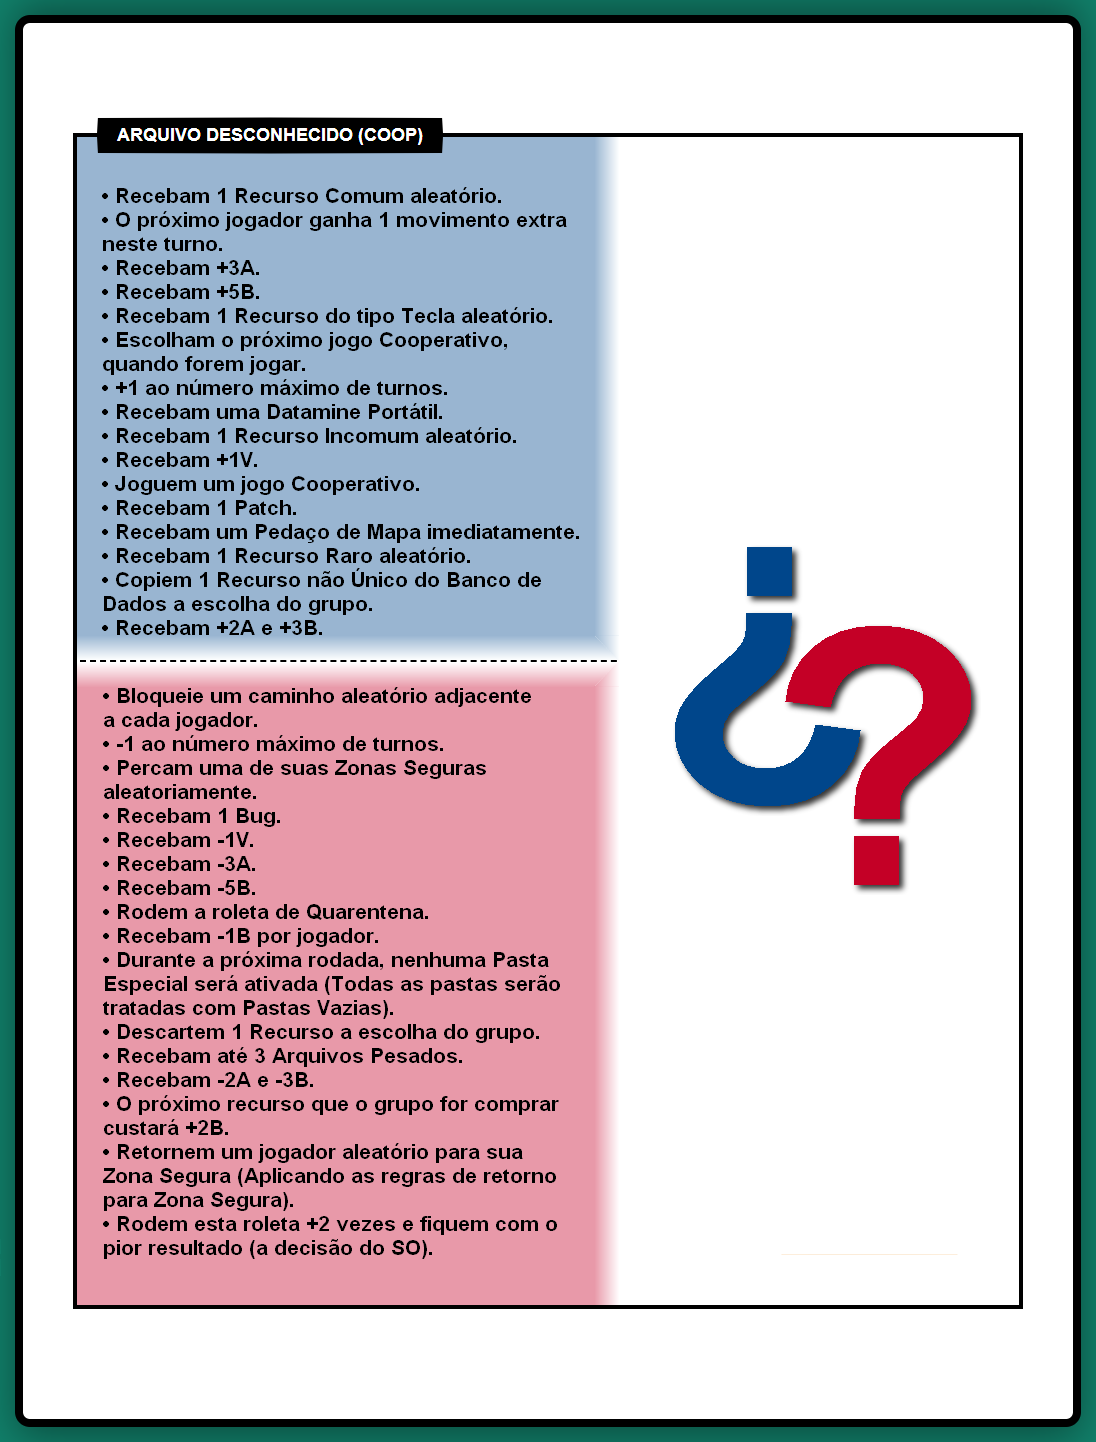
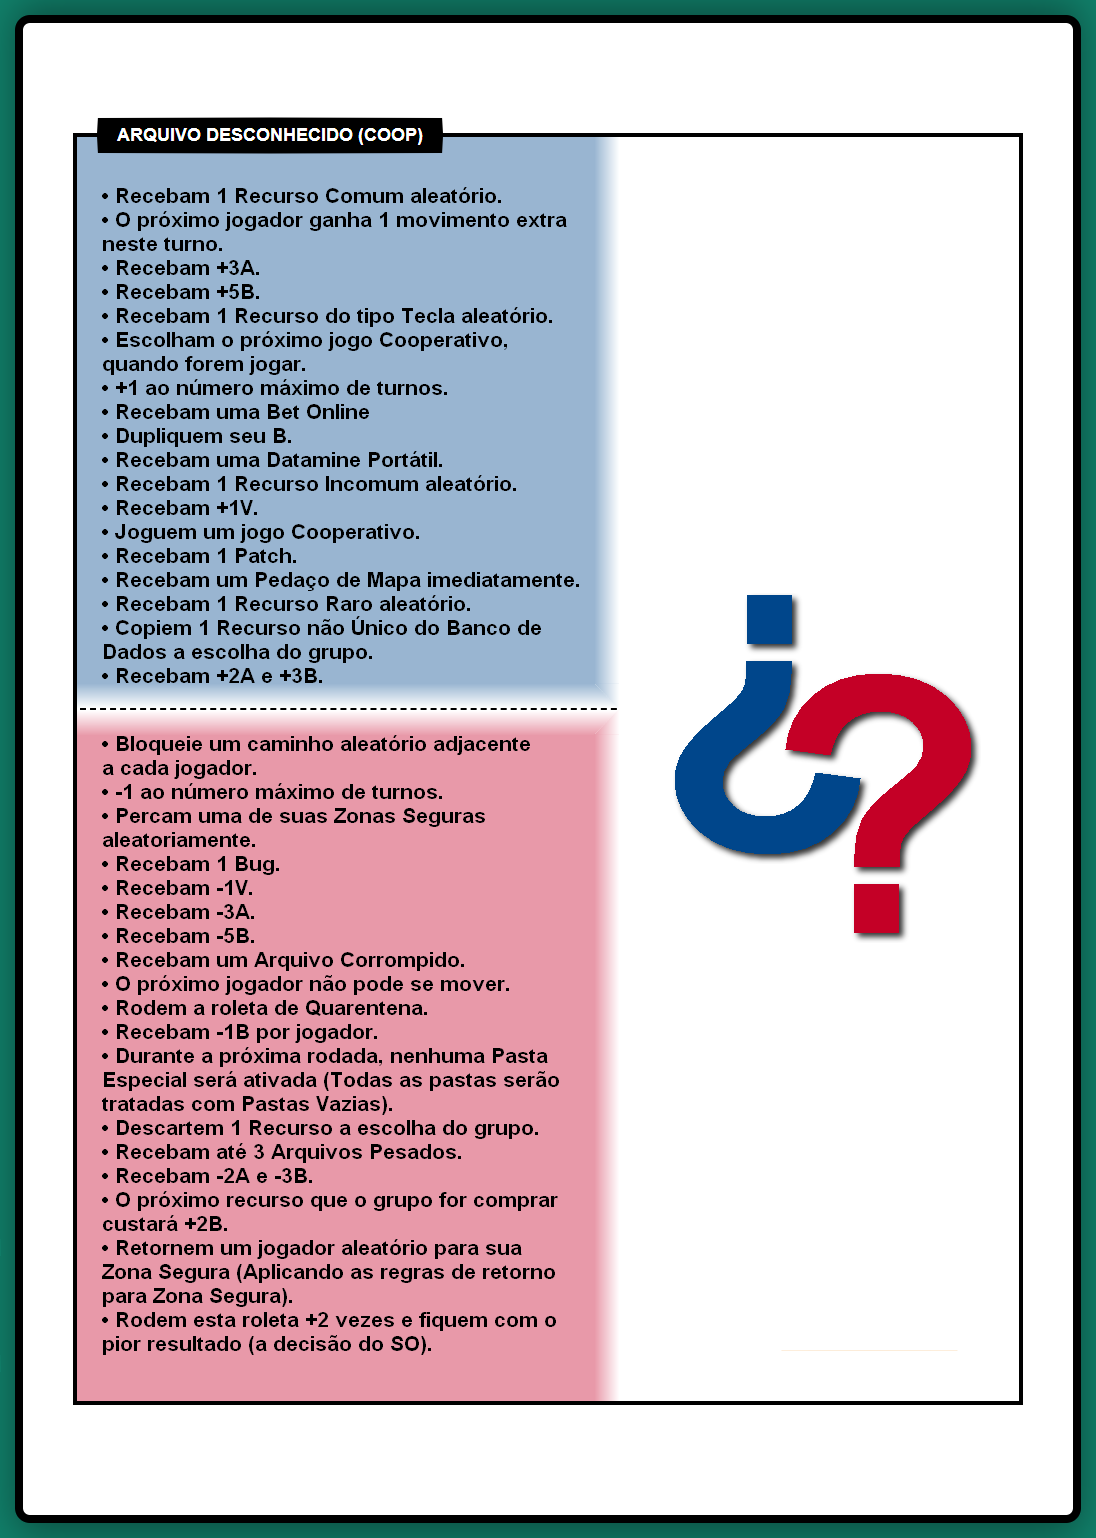
Add files via upload

diff --git a/Roletas - Datamining.html b/Roletas - Datamining.html
@@ -320,6 +320,10 @@
             { texto: "Receba -2A", cor: "#C40026", corTexto: "#FFFFFF", peso: 1 },
             { texto: "Jogue um jogo Cooperativo com os outros jogadores", cor: "#00468B", corTexto: "#FFFFFF", peso: 1 },
             { texto: "Receba -3B", cor: "#C40026", corTexto: "#FFFFFF", peso: 1 },
+			{ texto: "Receba uma Bet Online", cor: "#00468B", corTexto: "#FFFFFF", peso: 1 },
+            { texto: "Receba um Arquivo Corrompido", cor: "#C40026", corTexto: "#FFFFFF", peso: 1 },
+            { texto: "Passe a ser o primeiro jogador da rodada", cor: "#00468B", corTexto: "#FFFFFF", peso: 1 },
+            { texto: "Passe a ser o último jogador da rodada", cor: "#C40026", corTexto: "#FFFFFF", peso: 1 },
             { texto: "Receba uma Datamine Portátil", cor: "#00468B", corTexto: "#FFFFFF", peso: 1 },
             { texto: "Rode a roleta de Quarentena", cor: "#C40026", corTexto: "#FFFFFF", peso: 1 },
             { texto: "Receba +1B de cada outro jogador", cor: "#00468B", corTexto: "#FFFFFF", peso: 1 },
@@ -355,6 +359,10 @@
             { texto: "Recebam -3A", cor: "#C40026", corTexto: "#FFFFFF", peso: 1 },
             { texto: "+1 ao número máximo de turnos", cor: "#00468B", corTexto: "#FFFFFF", peso: 1 },
             { texto: "Recebam -5B", cor: "#C40026", corTexto: "#FFFFFF", peso: 1 },
+			{ texto: "Recebam uma Bet Online", cor: "#00468B", corTexto: "#FFFFFF", peso: 1 },
+            { texto: "Recebam um Arquivo Corrompido", cor: "#C40026", corTexto: "#FFFFFF", peso: 1 },
+            { texto: "Dupliquem seu B", cor: "#00468B", corTexto: "#FFFFFF", peso: 1 },
+            { texto: "O próximo jogador não pode se mover", cor: "#C40026", corTexto: "#FFFFFF", peso: 1 },
             { texto: "Recebam uma Datamine Portátil", cor: "#00468B", corTexto: "#FFFFFF", peso: 1 },
             { texto: "Rodem a roleta de Quarentena", cor: "#C40026", corTexto: "#FFFFFF", peso: 1 },
             { texto: "Recebam 1 Recurso Incomum aleatório", cor: "#00468B", corTexto: "#FFFFFF", peso: 1 },
@@ -408,7 +416,7 @@
             { texto: "Perca sua Zona Segura", cor: "#2E005C", corTexto: "#FFFFFF", peso: 1 },
             { texto: "Receba -2A", cor: "#5C005C", corTexto: "#FFFFFF", peso: 1 },
             { texto: "Dê 1 Recurso seu de maior raridade a outro jogador", cor: "#2E005C", corTexto: "#FFFFFF", peso: 1 },
-            { texto: "Receba 2 Arquivos Pesados", cor: "#5C005C", corTexto: "#FFFFFF", peso: 1 },
+            { texto: "Receba 1 Arquivo Pesado e 1 Arquivo Corrompido", cor: "#5C005C", corTexto: "#FFFFFF", peso: 1 },
             { texto: "Receba 2 Bugs", cor: "#2E005C", corTexto: "#FFFFFF", peso: 1 },
             { texto: "Seja teletransportado para um Pasta Vazia aleatória", cor: "#5C005C", corTexto: "#FFFFFF", peso: 1 },
             { texto: "Receba -1V", cor: "#2E005C", corTexto: "#FFFFFF", peso: 1 },
@@ -421,7 +429,7 @@
             { texto: "Recebam -5B", cor: "#5C005C", corTexto: "#FFFFFF", peso: 1 },
             { texto: "-3 ao número máximo de rodadas", cor: "#2E005C", corTexto: "#FFFFFF", peso: 1 },
             { texto: "Recebam -4A", cor: "#5C005C", corTexto: "#FFFFFF", peso: 1 },
-            { texto: "Recebam 3 Arquivos Pesados", cor: "#2E005C", corTexto: "#FFFFFF", peso: 1 },
+            { texto: "Recebam 2 Arquivos Pesados e 1 Arquivo Corrompido", cor: "#2E005C", corTexto: "#FFFFFF", peso: 1 },
             { texto: "Percam 1 de suas Zonas Seguras aleatoriamente", cor: "#5C005C", corTexto: "#FFFFFF", peso: 1 },
             { texto: "Recebam 2 Bugs", cor: "#2E005C", corTexto: "#FFFFFF", peso: 1 },
             { texto: "Sejam teletransportados para Pastas Vazias aleatórias", cor: "#5C005C", corTexto: "#FFFFFF", peso: 1 },

diff --git a/Banco de Dados - All - Datamining.html b/Banco de Dados - All - Datamining.html
@@ -202,8 +202,8 @@
         .color-menu button:hover { background: #eee; }
 
         .image-selector-menu {
-            grid-template-columns: repeat(6, 50px);
-            grid-template-rows: repeat(7, 50px);
+            grid-template-columns: repeat(5, 50px);
+            grid-template-rows: repeat(9, 50px);
             gap: 2px;
             padding: 5px;
             background: #484848;
@@ -304,7 +304,7 @@
     }
 
     const imageSelector = document.getElementById('global-image-selector');
-	const totalRecursos = 42;
+	const totalRecursos = 45;
     for (let i = 1; i <= totalRecursos; i++) {
         const img = document.createElement('img');
         img.src = `Recurso (${i}).png`; 
